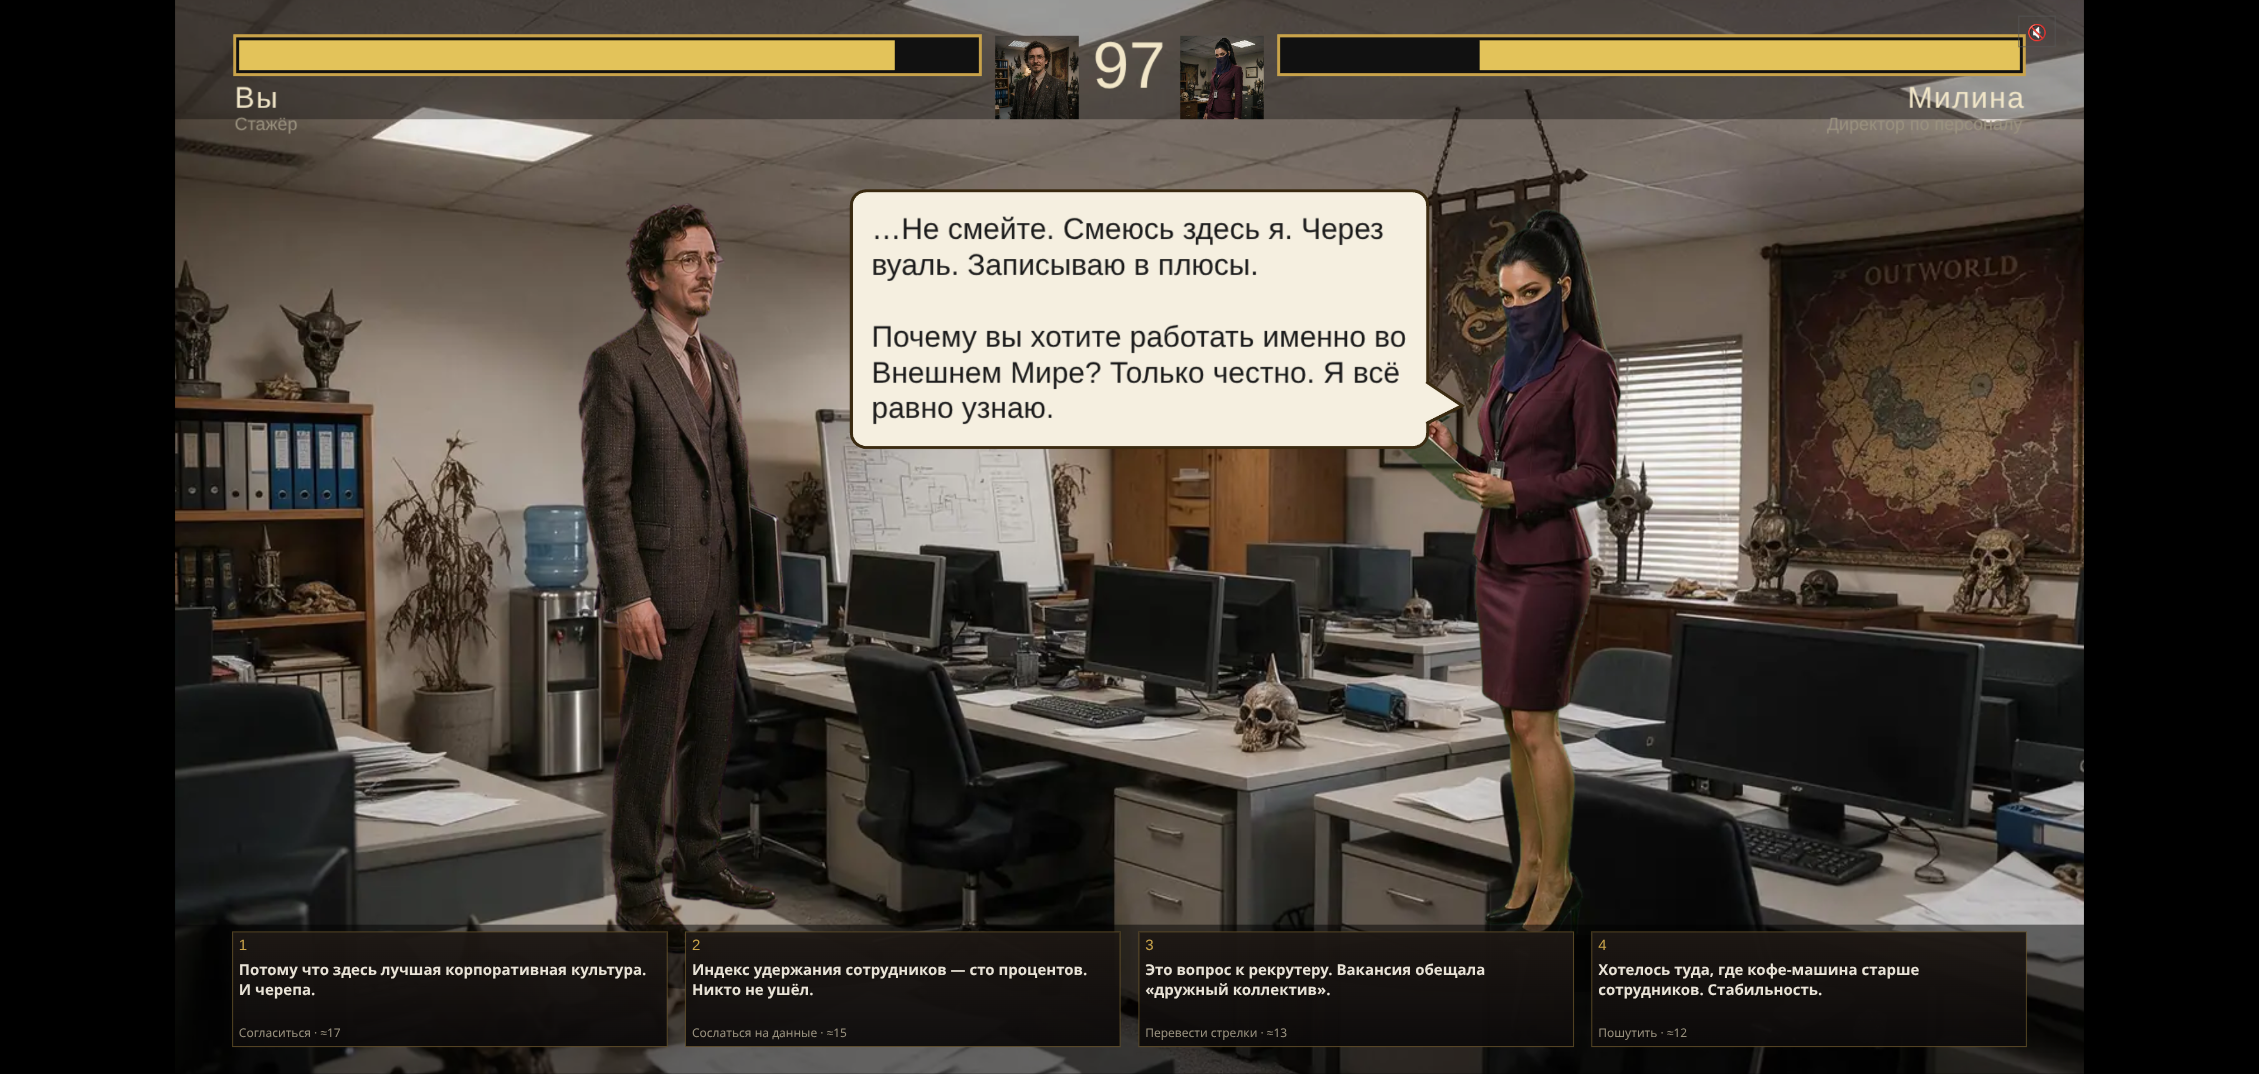
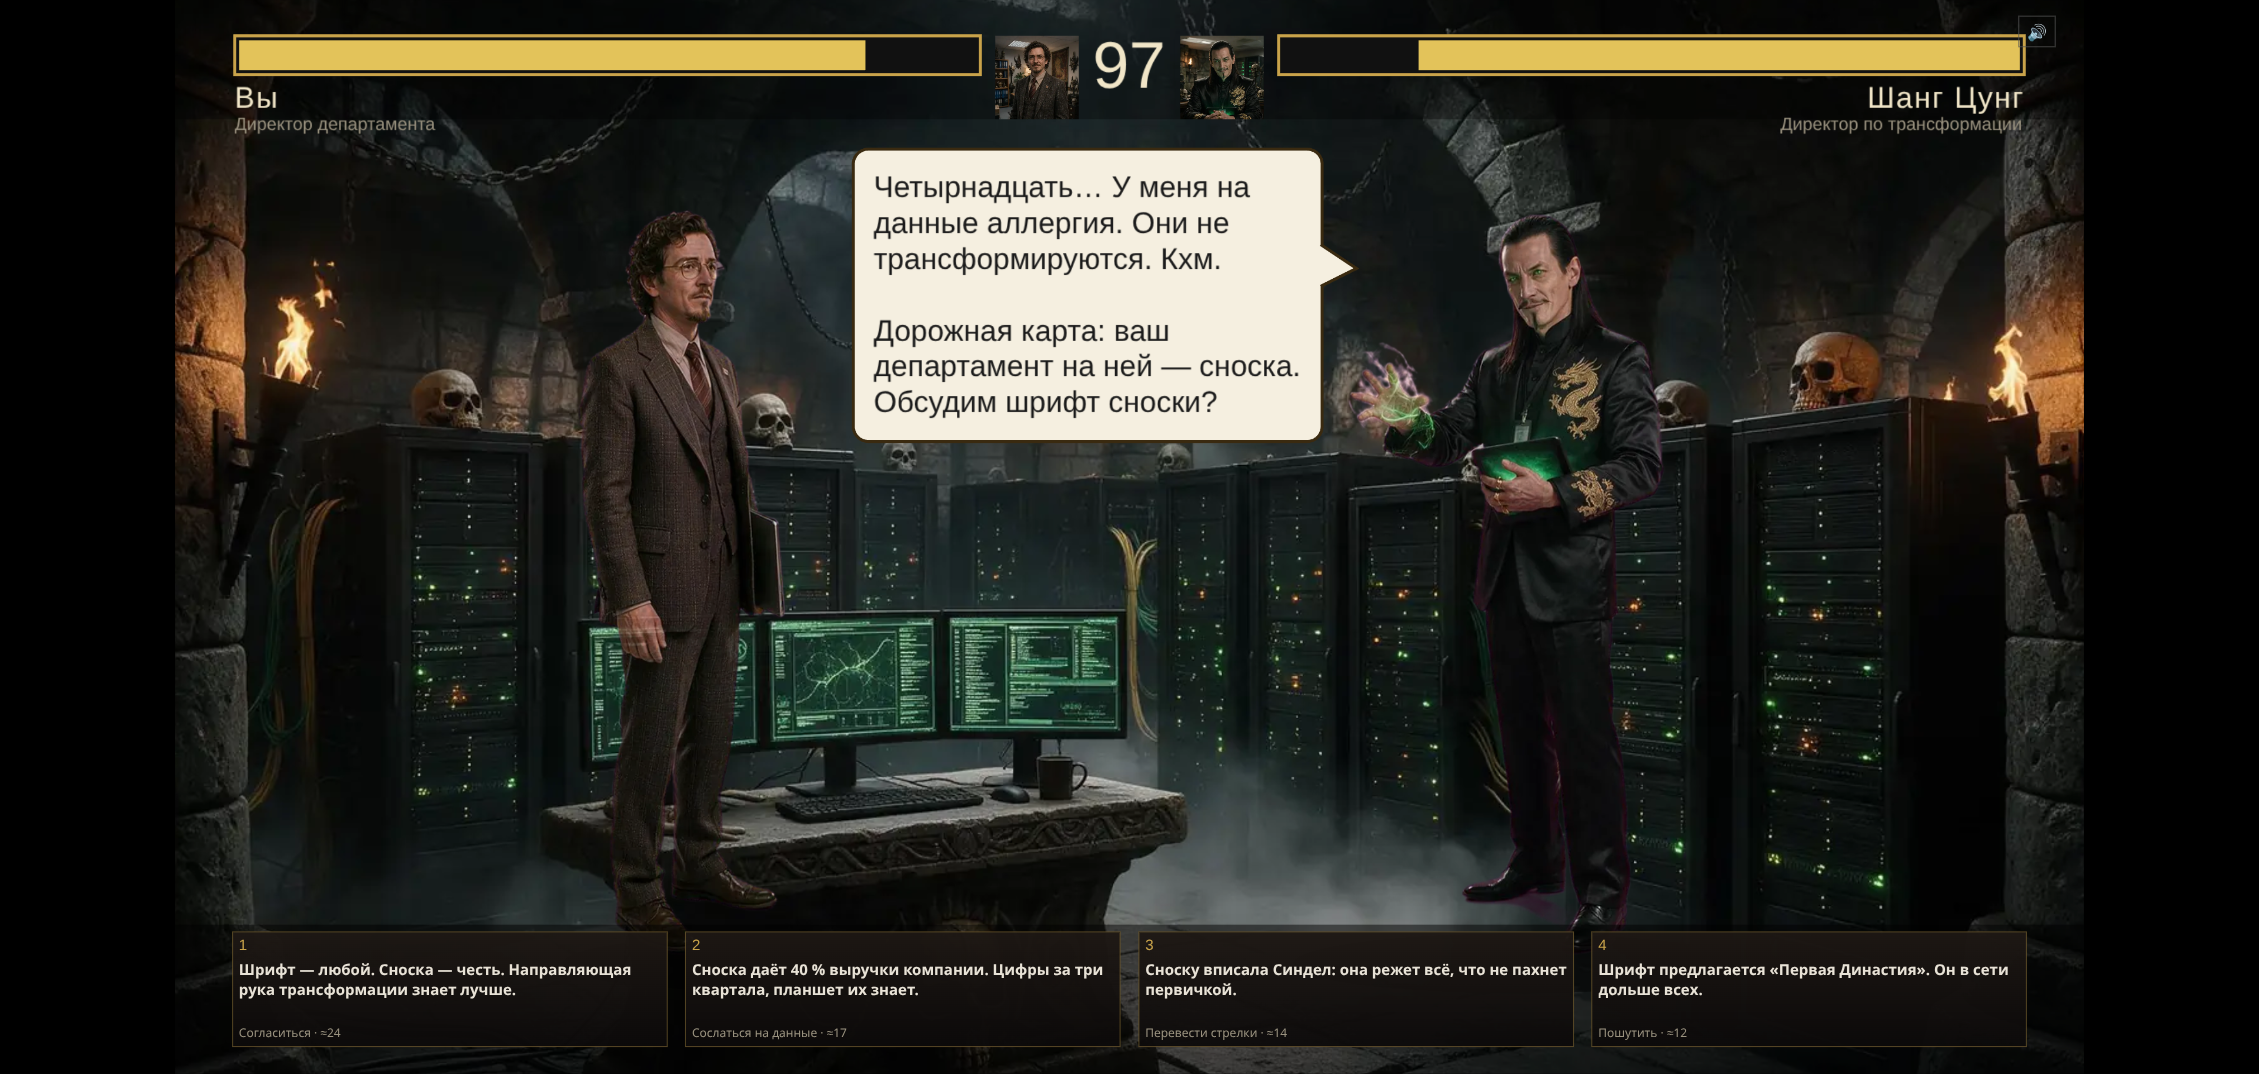
fix(battle): move boss speech bubble into the gap between fighters
Previous placement (right edge at boss.x − 60, bottom at 300) covered the
boss face — measured idle sprites show the boss body starts at x ≥ 775
(Shang Tsung head from 787). Bubble now sits centered at x = 612 in the
free column between the fighters, top anchored at y = 100 under the HUD,
wrap 290, tail pointing at the boss face. Spec and README screenshots
updated.

Claude-Session: https://claude.ai/code/session_01YA3BKhrz6EjfgbzJeumUh5

diff --git a/src/render/effects.ts b/src/render/effects.ts
@@ -104,13 +104,16 @@ export async function banner(scene: Scene, text: string): Promise<void> {
 }
 
 const SPEECH = 'speech';
-// Геометрия пузыря (координаты сцены 1280×720): стоит между бойцами слева от босса, растёт вверх.
-// Левее ~460 px голова героя, выше ~90 px HUD — отсюда ширина переноса и лимиты текстов в валидаторе
-// (реплика 110, реакция 75): худший случай — 6 строк ≈ 172 px, верх на 128 px.
-const BUBBLE_RIGHT_GAP = 60;
-const BUBBLE_BOTTOM = 300;
-const BUBBLE_WRAP = 380;
-const BUBBLE_TOP_MIN = 100;
+// Геометрия пузыря (координаты сцены 1280×720): стоит в просвете между бойцами, растёт вниз от HUD.
+// Замер по idle-спрайтам (все позы 700×900 → высота 520): герой в idle занимает x ≤ 450, босс — x ≥ 775
+// (Шан Цзун — самый широкий, голова от 787), головы на y 128–275, HUD заканчивается на ~75.
+// Отсюда центр просвета 612, коробка не шире 318 (перенос 290 + 2×14) и верх на 100: пузырь стоит
+// рядом с лицом босса, не закрывая ни его, ни героя. Худший случай текста (реакция 75 + реплика 110)
+// при ~30 знаках в строке — 8 строк ≈ 220 px; страховка — шрифт 17 px, если коробка длиннее допустимого.
+const BUBBLE_CENTER_X = 612;
+const BUBBLE_TOP = 100;
+const BUBBLE_MAX_BOTTOM = 600;
+const BUBBLE_WRAP = 290;
 const BUBBLE_FONT = 20;
 const BUBBLE_FONT_SMALL = 17;
 const BUBBLE_PAD = 14;
@@ -133,22 +136,22 @@ function drawBubbleBox(box: Graphics, t: Text): { w: number; h: number } {
   const h = t.height + BUBBLE_PAD * 2;
   box.clear();
   box.roundRect(-w / 2, -h / 2, w, h, 10).fill({ color: BUBBLE_FILL }).stroke({ color: BUBBLE_STROKE, width: 2 });
-  // хвостик вправо, к боссу: заливка поверх рамки, затем обводка только двух внешних рёбер
-  const x0 = w / 2 - 1, yTop = h / 2 - 44, yTip = h / 2 - 28, yBot = h / 2 - 16;
+  // хвостик вправо, к лицу босса (y ≈ 180 на сцене, то есть ~80 px ниже верха коробки; у короткой коробки — по центру):
+  // заливка поверх рамки, затем обводка только двух внешних рёбер
+  const x0 = w / 2 - 1, yTip = -h / 2 + Math.min(80, h - 30), yTop = yTip - 16, yBot = yTip + 12;
   box.poly([x0, yTop, x0 + 24, yTip, x0, yBot]).fill({ color: BUBBLE_FILL });
   box.moveTo(x0, yTop).lineTo(x0 + 24, yTip).lineTo(x0, yBot).stroke({ color: BUBBLE_STROKE, width: 2 });
   return { w, h };
 }
 
 /** Перерисовать коробку под текст и поставить пузырь правым нижним углом к точке привязки; если не влезает по высоте — шрифт меньше. */
-function layoutBubble(scene: Scene, c: Container): void {
+function layoutBubble(c: Container): void {
   const t = c.getChildByLabel('text') as Text;
   const box = c.getChildByLabel('box') as Graphics;
   t.style.fontSize = BUBBLE_FONT;
   let size = drawBubbleBox(box, t);
-  if (size.h > BUBBLE_BOTTOM - BUBBLE_TOP_MIN) { t.style.fontSize = BUBBLE_FONT_SMALL; size = drawBubbleBox(box, t); }
-  const right = scene.fighterPoint('boss').x - BUBBLE_RIGHT_GAP;
-  c.position.set(right - size.w / 2, BUBBLE_BOTTOM - size.h / 2);
+  if (size.h > BUBBLE_MAX_BOTTOM - BUBBLE_TOP) { t.style.fontSize = BUBBLE_FONT_SMALL; size = drawBubbleBox(box, t); }
+  c.position.set(BUBBLE_CENTER_X, BUBBLE_TOP + size.h / 2);
 }
 
 /**
@@ -175,7 +178,7 @@ export function speechLine(scene: Scene, text: string, style: 'bubble' | 'center
   if (append && existing) {
     const t = existing.getChildByLabel('text') as Text;
     t.text = `${t.text}\n\n${text}`;
-    layoutBubble(scene, existing);
+    layoutBubble(existing);
     return;
   }
   if (existing) { gsap.killTweensOf(existing); existing.destroy({ children: true }); }
@@ -187,7 +190,7 @@ export function speechLine(scene: Scene, text: string, style: 'bubble' | 'center
   t.label = 'text';
   t.anchor.set(0.5);
   c.addChild(box, t);
-  layoutBubble(scene, c);
+  layoutBubble(c);
   c.alpha = 0;
   layer.addChild(c);
   scene.track(gsap.to(c, { alpha: 1, duration: 0.2 }));

diff --git a/docs/superpowers/specs/2026-09-04-battle-dialogue-design.md b/docs/superpowers/specs/2026-09-04-battle-dialogue-design.md
@@ -83,8 +83,8 @@ fatality:     без реплик, как раньше
 
 Константы рядом с `W`/`H`: `BUBBLE_RIGHT_GAP = 60`, `BUBBLE_BOTTOM = 300`, `BUBBLE_WRAP = 380`, `BUBBLE_TOP_MIN = 100`.
 
-- Пузырь `bubble` стоит **между бойцами, слева от босса**: правый край на `fighterPoint('boss').x − BUBBLE_RIGHT_GAP`, нижний край на `BUBBLE_BOTTOM`, растёт вверх. Левее 460 px начинается голова героя, выше ~90 px — HUD, поэтому ширина переноса 380 и лимиты текста ниже подобраны так, чтобы верх пузыря не поднимался выше `BUBBLE_TOP_MIN`: реакция ≤ 75 знаков (2 строки при ~38 знаках на строку) + пустая строка + реплика ≤ 110 (3 строки) = 6 строк × 24 px + 2 × 14 px отступов = 172 px, верх на 128 px. Страховка: если после `append` высота коробки больше `BUBBLE_BOTTOM − BUBBLE_TOP_MIN`, шрифт уменьшается до 17 px и коробка перерисовывается.
-- Один пузырь — один `Container` с меткой `label = 'speech'`, внутри ровно один `Text` (`align: 'left'`, `wordWrap`, `wordWrapWidth: BUBBLE_WRAP`) и одна `Graphics` коробка с хвостиком-треугольником вправо, к боссу. Позиция считается от размеров текста: `x = right − w/2`, `y = bottom − h/2` при `anchor 0.5`.
+- Пузырь `bubble` стоит **в просвете между бойцами**, растёт вниз от HUD: центр по x на `BUBBLE_CENTER_X = 612`, верх на `BUBBLE_TOP = 100`. Замер по idle-спрайтам (700×900 → высота 520): герой занимает x ≤ 450, босс x ≥ 775 (Шан Цзун самый широкий, голова от 787), головы на y 128–275, HUD до ~75. Поэтому коробка не шире 318 (`BUBBLE_WRAP = 290` + 2×14) и не закрывает лиц ни при каком тексте; хвостик указывает вправо на лицо босса (~80 px ниже верха коробки). Худший случай текста (реакция 75 + пустая строка + реплика 110 при ~30 знаках в строке) — 8 строк × 24 px + 28 px ≈ 220 px. Страховка: если высота больше `BUBBLE_MAX_BOTTOM − BUBBLE_TOP` (500 px), шрифт уменьшается до 17 px. Первая версия (справа от центра, правый край на `boss.x − 60`, низ на 300) закрывала лицо босса — исправлено по плейтесту.
+- Один пузырь — один `Container` с меткой `label = 'speech'`, внутри ровно один `Text` (`align: 'left'`, `wordWrap`, `wordWrapWidth: BUBBLE_WRAP`) и одна `Graphics` коробка с хвостиком-треугольником вправо, к боссу. Позиция считается от размеров текста: `x = BUBBLE_CENTER_X`, `y = BUBBLE_TOP + h/2` при `anchor 0.5`.
 - `append: true`: найти пузырь по метке; если его нет — вести себя как обычный `bubble`. Иначе `text.text = prev + '\n\n' + next`, `box.clear()` и перерисовка коробки и хвостика по новым `width/height`, пересчёт позиции. Без `clearSpeech`, без анимации alpha.
 - `append: false` (обычный `bubble`): предыдущий пузырь уничтожается **мгновенно** (не fade — иначе две коробки лежат друг на друге), новый появляется за 0.2 с.
 - `clearSpeech(scene)` (уже есть) остаётся для контроллера: гасит пузырь за 0.25 с в момент хода игрока.
